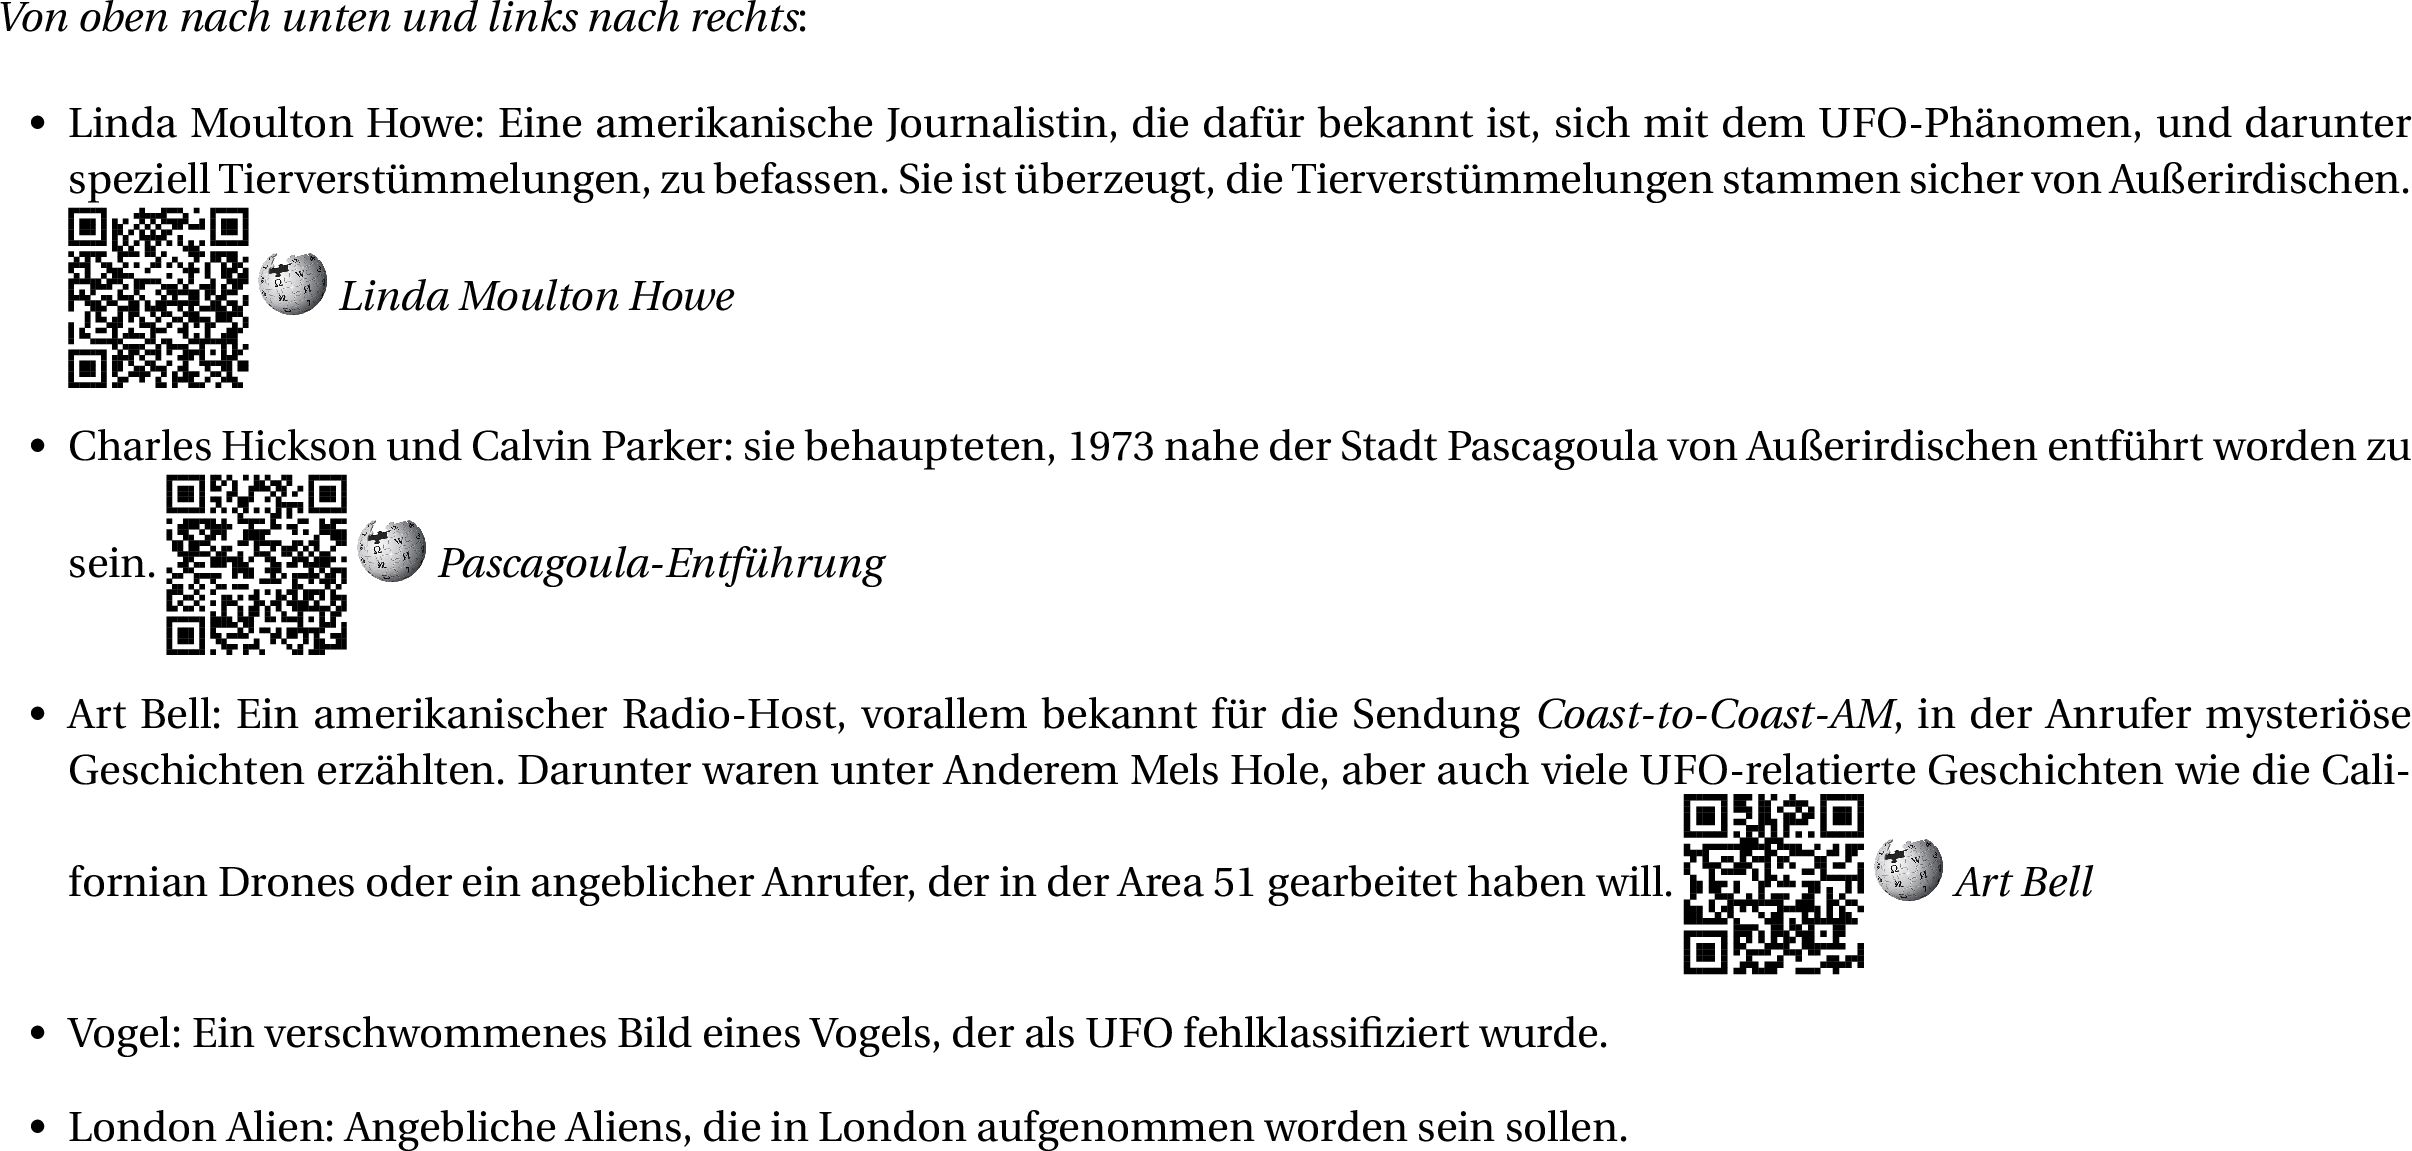
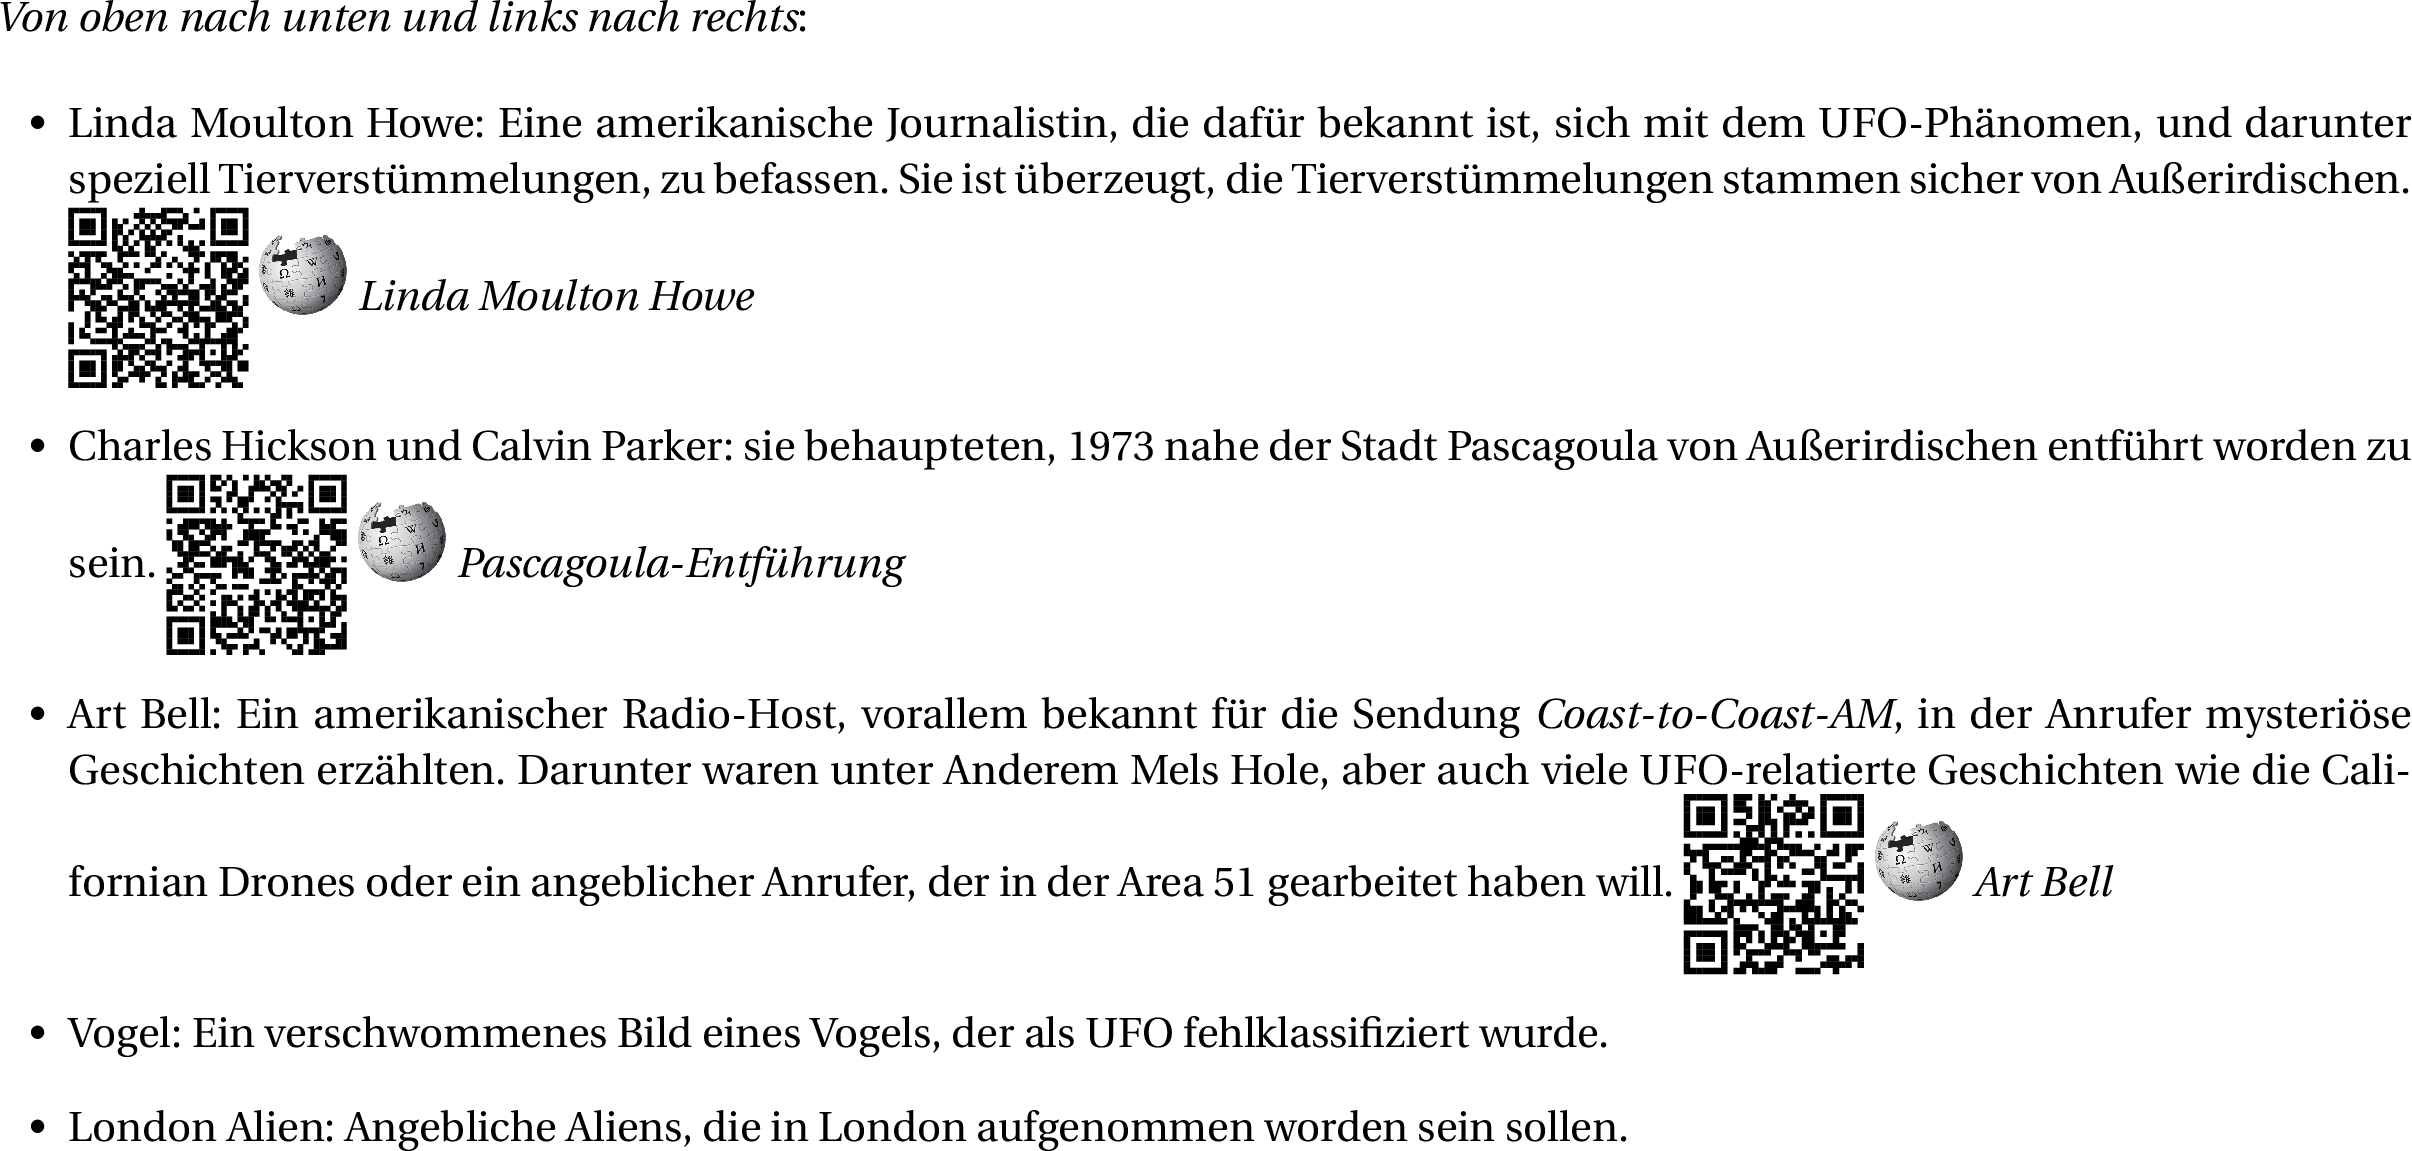
fix

Changed region(s): [[0.1244, 0.4257, 0.3731, 0.5169], [0.0933, 0.2129, 0.3109, 0.2737], [0.7774, 0.6994, 0.8706, 0.7906]]

diff --git a/poster/header.tex b/poster/header.tex
@@ -52,7 +52,7 @@
     paperheight=29.7cm % Höhe der Seite (A4)
 }
 
-\newcommand{\wikipedia}{ \raisebox{-0.3ex}{\includegraphics[height=3.5ex]{../wiki.png}}}
-\newcommand{\youtube}{ \raisebox{-0.3ex}{\includegraphics[height=3.5ex]{../youtube.png}}}
-\newcommand{\hoaxilla}{ \raisebox{-0.3ex}{\includegraphics[height=3.5ex]{../hoaxilla.png}}}
-\newcommand{\skeptoid}{ \raisebox{-0.3ex}{\includegraphics[height=3.5ex]{../skeptoid.png}}}
+\newcommand{\wikipedia}{ \raisebox{-0.3ex}{\includegraphics[height=4.5ex]{../wiki.png}}}
+\newcommand{\youtube}{ \raisebox{-0.3ex}{\includegraphics[height=4.5ex]{../youtube.png}}}
+\newcommand{\hoaxilla}{ \raisebox{-0.3ex}{\includegraphics[height=4.5ex]{../hoaxilla.png}}}
+\newcommand{\skeptoid}{ \raisebox{-0.3ex}{\includegraphics[height=4.5ex]{../skeptoid.png}}}
